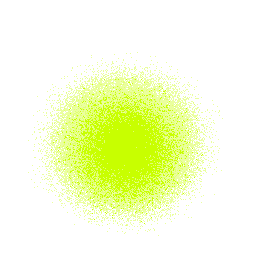
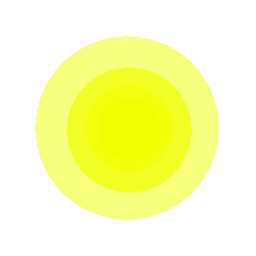
Flotando y guay

diff --git a/src/entities/lantern.py b/src/entities/lantern.py
@@ -1,18 +1,28 @@
 import pygame
 from resource_manager import ResourceManager
+import math
+
+from utils.constants import SCALE_FACTOR
 
 
 class Lantern(pygame.sprite.Sprite):
     def __init__(self, position, path, scale=4, speed=2):
         super().__init__()
         self.speed = speed
+        self.radius = 190 * SCALE_FACTOR  # Radio del collider circular
+        self.angle = 0  # Ángulo de inclinación
+        self.float_offset = 0  # Desplazamiento vertical para la flotación
+        self.float_speed = 0.1  # Velocidad de la oscilación
+        self.float_amplitude = 20  # Amplitud de la oscilación
+        self.time = 0  # Contador de tiempo para la flotación
 
         # Cargar imagen de la linterna
         original_image = ResourceManager().load_image("Lantern.png", "assets/images")
         width, height = original_image.get_size()
-        self.image = pygame.transform.scale(
+        self.original_image = pygame.transform.scale(
             original_image, (width * scale, height * scale)
         )
+        self.image = self.original_image.copy()
 
         # Cargar imagen de la luz
         light_image = ResourceManager().load_image("Light.png", "assets/images")
@@ -21,17 +31,12 @@ class Lantern(pygame.sprite.Sprite):
             light_image, (light_width * scale, light_height * scale)
         )
 
-        # Generar máscara de colisión para la luz (ignora transparencia)
-        self.mask = pygame.mask.from_surface(self.light_image)
-
         # Ajustar rectángulo usando el centro
         self.rect = self.image.get_rect(center=position)
         self.pos = pygame.math.Vector2(position)  # Posición absoluta en el mundo
 
         # Convertir path a posiciones absolutas en el mundo
-
         self.path = [pygame.math.Vector2(p) for p in path]
-        # Ordenar los puntos del path
 
         # Iniciar en el primer punto correctamente
         self.current_point_index = 0
@@ -52,23 +57,37 @@ class Lantern(pygame.sprite.Sprite):
             self.pos = target_position
             self.current_point_index = (self.current_point_index + 1) % len(self.path)
             self.target = self.path[self.current_point_index]  # Nuevo destino
-        else:
+        elif distance > 0:  # Asegurarse de que el vector no sea nulo
             direction = vector_to_target.normalize()
-            self.pos += direction * self.speed  # Movimiento constante
+            self.pos += direction * min(
+                self.speed, distance
+            )  # Movimiento constante y preciso
+
+            # Suavizar la rotación en el eje X
+            target_angle = (
+                direction.x * -10
+            )  # Inclinación basada en movimiento horizontal
+            self.angle += (
+                target_angle - self.angle
+            ) * 0.1  # Interpolación para suavidad
+
+        # Aplicar efecto de flotación
+        self.time += self.float_speed
+        self.float_offset = math.sin(self.time) * self.float_amplitude
+
+        # Rotar la imagen
+        self.image = pygame.transform.rotate(self.original_image, self.angle)
+        self.rect = self.image.get_rect(center=self.rect.center)
 
         # Actualizar la posición del rectángulo (coordenadas de pantalla)
         self.rect.center = (
             round(self.pos.x - offset[0]),
-            round(self.pos.y - offset[1]),
+            round(self.pos.y - offset[1] + self.float_offset),
         )
 
-        # Ajustar la posición de la máscara (coincide con la luz)
-        light_rect = self.light_image.get_rect(center=self.rect.center)
-
-        # Colisión con el jugador solo en píxeles visibles de la luz
-        if player.mask.overlap(
-            self.mask, (light_rect.x - player.rect.x, light_rect.y - player.rect.y)
-        ):
+        # Colisión con el jugador usando el collider circular
+        distance_to_player = self.pos.distance_to((player.rect.x, player.rect.y))
+        if distance_to_player <= self.radius:
             safe_tiles = tilemap.get_safe_rects()
             player_in_safe_zone = any(
                 player.rect.colliderect(safe_tile) for safe_tile in safe_tiles
@@ -77,16 +96,20 @@ class Lantern(pygame.sprite.Sprite):
                 player.is_dying = True
 
     def draw(self, screen, offset=(0, 0)):
-        """Dibuja la linterna y su luz en la pantalla con desplazamiento de cámara."""
+        """Dibuja la linterna, su luz y el collider circular en la pantalla con desplazamiento de cámara."""
         # Calcular la posición de la luz con el offset de la cámara
         light_pos = (
             self.pos.x - self.light_image.get_width() // 2 - offset[0],
-            self.pos.y - self.light_image.get_height() // 2 - offset[1],
+            self.pos.y
+            - self.light_image.get_height() // 2
+            - offset[1]
+            + self.float_offset,
         )
 
-        # Dibujar la linterna encima, aplicando el offset
-        screen.blit(self.image, (self.rect.x, self.rect.y))
         # Dibujar la luz con opacidad ajustada
         light_surface = self.light_image.copy()
         light_surface.set_alpha(128)
         screen.blit(light_surface, light_pos)
+
+        # Dibujar la linterna encima, aplicando el offset
+        screen.blit(self.image, (self.rect.x, self.rect.y))

diff --git a/src/scenes/cemeteryPhase.py b/src/scenes/cemeteryPhase.py
@@ -34,7 +34,7 @@ class CemeteryPhase(Phase):
 
         self.firefly = Firefly(600, 600, area_rect)
         self.mushroom = Mushroom(100, 800)
-        
+
         self.lampposts_group = pygame.sprite.Group()
         self.lights_group = pygame.sprite.Group(self.firefly.light, self.mushroom.light)
         self.create_lampposts()
@@ -48,7 +48,11 @@ class CemeteryPhase(Phase):
 
         self.sound_manager.play_music("mystic_forest.mp3", "assets\\music", -1)
 
-        self.fade_out = FadeOut(self.screen, 1, on_complete= lambda: change_scene(self.director, "MinigamePhase"))
+        self.fade_out = FadeOut(
+            self.screen,
+            1,
+            on_complete=lambda: change_scene(self.director, "MinigamePhase"),
+        )
 
         # Triggers
         self.triggers = []
@@ -71,36 +75,42 @@ class CemeteryPhase(Phase):
                 direction=(0, 1),
                 angle=40,
                 distance=200,
-                fixed_position=(lamppost.x, lamppost.y)
+                fixed_position=(lamppost.x, lamppost.y),
             )
             light.blink_offset = index * 2
             self.lampposts_group.add(light)
             self.lights_group.add(light)
-            
+
     def init_trigger(self, entity_name: str, callback: callable):
         """
         Initialize a trigger with a callback function.
         """
         end_coords = self.foreground.load_entity(entity_name)
-        self.end_phase_rect = pygame.Rect(end_coords.x, end_coords.y, end_coords.width, end_coords.height)
+        self.end_phase_rect = pygame.Rect(
+            end_coords.x, end_coords.y, end_coords.width, end_coords.height
+        )
         self.triggers.append(Trigger(self.end_phase_rect, callback))
-        
+
     def delete_trigger(self, entity_name):
         self.triggers.remove(entity_name)
-    
+
     def start_trigger(self):
         """
         Action to be triggered when the player starts.
         """
-        self.instruction_text = InitialInstructionText(self.screen, (WIDTH // 5, WIDTH // 8))
+        self.instruction_text = InitialInstructionText(
+            self.screen, (WIDTH // 5, WIDTH // 8)
+        )
         self.instruction_timer = 10  # Display for 10 seconds
-        
+
     def start_again_trigger(self):
         """
         Action to be triggered when the player starts after dying.
         """
-        self.instruction_text = RetryInstructionText(self.screen, (WIDTH // 5, WIDTH // 8))
-        self.instruction_timer = 5 
+        self.instruction_text = RetryInstructionText(
+            self.screen, (WIDTH // 5, WIDTH // 8)
+        )
+        self.instruction_timer = 5
 
     def update(self):
         dt = self.director.clock.get_time() / 1000
@@ -114,7 +124,7 @@ class CemeteryPhase(Phase):
                 mushroom.bounce = True
 
         if not self.director.restarted:
-                self.init_trigger("start_trigger", lambda: self.start_trigger())
+            self.init_trigger("start_trigger", lambda: self.start_trigger())
         else:
             self.init_trigger("start_trigger", lambda: self.start_trigger())
             self.init_trigger("start_again_trigger", lambda: self.start_again_trigger())
@@ -139,13 +149,13 @@ class CemeteryPhase(Phase):
             light.update(dt)
 
         for light in self.lights_group:
-            if light.intensity > 0 and self.player.check_pixel_perfect_collision(light): 
+            if light.intensity > 0 and self.player.check_pixel_perfect_collision(light):
                 self.player.is_dying = True
 
         if self.player.dead:
             self.director.restarted = True
             self.director.scene_manager.stack_scene("CemeteryPhase")
-        
+
         self.fade_out.update(dt)
 
         self.camera.update(self.player.rect)
@@ -160,13 +170,13 @@ class CemeteryPhase(Phase):
 
         self.background.draw(self.screen, offset)
         self.foreground.draw(self.screen, offset)
-        #self.mushroom.draw(self.screen, offset)
+        # self.mushroom.draw(self.screen, offset)
         self.player.draw(self.screen, camera_offset=offset)
         self.firefly.draw(self.screen, offset)
-        
+
         for light in self.lampposts_group:
             light.draw(self.screen, offset)
-        
+
         for trigger in self.triggers:
             trigger.draw(self.screen)
 

diff --git a/src/gui/gui_elements/guiText.py b/src/gui/gui_elements/guiText.py
@@ -235,7 +235,7 @@ class BossTutorialText(TextGUI):
             screen,
             font,
             (255, 255, 255),
-            "Be careful, hide from the light!",
+            "Be careful, hide behind the walls!",
             position,
         )
 

diff --git a/src/trigger.py b/src/trigger.py
@@ -49,6 +49,7 @@ def glide(screen, player):
 
 
 def boss_tutorial(screen, pos):
+
     text = BossTutorialText(screen, pos)
     return text
 
